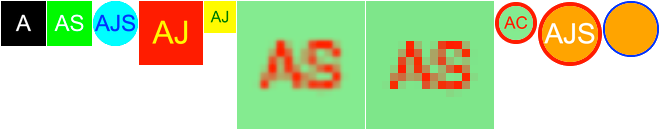
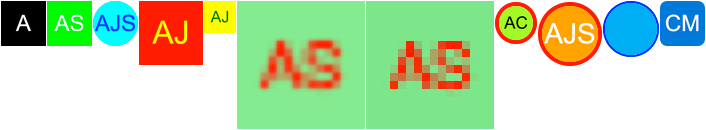
Improve documentation

diff --git a/dist/angular-avatar.min.js b/dist/angular-avatar.min.js
@@ -1,9 +1,9 @@
 /**
  * angular-avatar
  * Angular Avatar is an AngularJS directive that generates a letter's avatar like Google does in several web apps. First letter of each word in a string will be used to generate the avatar.
- * @version v1.0.3 - 2016-04-09
+ * @version v1.0.3 - 2016-04-30
  * @link https://github.com/ajsoriar/angular-avatar
  * @author Andres J. Soria R. <ajsoriar@gmail.com>
  * @license MIT License, http://www.opensource.org/licenses/MIT
  */
-!function(){"use strict";var ngavatar=angular.module("ngAvatar",[]);ngavatar.directive("ngAvatar",[function(){return{restrict:"AE",replace:!0,scope:{initials:"@initials",width:"@width",bgcolor:"@bgColor",textColor:"@textColor",wrapper:"@wrapper",pictureResolution:"@pictureResolution",pixelated:"@pixelated",roundShape:"@roundShape","class":"@class",style:"@style",string:"@string",cornerRadius:"@cornerRadius"},link:function(scope,element,attrs){function generateAvatar(name,w,h,bgcolor,textcolor,bgImage){var WIDTH=256,HEIGHT=256;void 0!=w&&w>0&&void 0!=h&&h>0&&(WIDTH=w,HEIGHT=h);var canvas=document.createElement("canvas");canvas.id="ngAvatar-"+Date.now(),canvas.width=WIDTH,canvas.height=HEIGHT;var ctx=canvas.getContext("2d");ctx.fillStyle=bgcolor,ctx.fillRect(0,0,WIDTH,HEIGHT),ctx.font=WIDTH/2+"px Arial",ctx.textAlign="center",ctx.fillStyle=textcolor,ctx.fillText(_str,WIDTH/2,HEIGHT/1.5);var img=canvas.toDataURL("image/png");return img}function getInitialsFromString(str){var output="",i=0,str=str.split(" "),len=str.length;for(i;len>i;i++)""!=str[i]&&(output+=str[i][0].toUpperCase());return output}var _long=45,_picture_resolution=256,_wrapper=!0,_str=scope.initials||"",_bgcolor="#000",_textcolor="#fff",_pixelated=!1,_img_styling="vertical-align: top;",_roundShape=!1,_wrapper_styling="border-radius: 0;display: block;overflow: hidden;",_extra_classes="",_extra_styles="",_corner_radius="0";void 0!=scope.bgcolor&&(_bgcolor=scope.bgcolor),void 0!=scope.textColor&&(_textcolor=scope.textColor),void 0!=scope.wrapper&&(_wrapper=scope.wrapper),void 0!=scope.pictureResolution&&(_picture_resolution=scope.pictureResolution),void 0!=scope.width&&(_long=scope.width),void 0!=scope.pixelated&&(_pixelated=scope.pixelated,"true"===_pixelated&&(_img_styling+="image-rendering: pixelated; image-rendering: -moz-crisp-edges;")),void 0!=scope.roundShape?(_roundShape=scope.roundShape,_roundShape&&(_wrapper_styling+="border-radius: "+_long+"px;")):void 0!=scope.cornerRadius&&(_corner_radius=scope.cornerRadius,_wrapper_styling+="border-radius: "+_corner_radius+"px;"),void 0!=scope["class"]&&(_extra_classes=scope["class"]),void 0!=scope.style&&(_extra_styles=scope.style),void 0!=scope.string&&(_str=getInitialsFromString(scope.string));var imgData=generateAvatar(_str,_picture_resolution,_picture_resolution,_bgcolor,_textcolor,null),html="";_wrapper&&(html+='<div class="avatar-wrapper '+_extra_classes+'" style="'+_wrapper_styling+"width: "+_long+"px;height: "+_long+"px;"+_extra_styles+'">'),html+='<img src="'+imgData+'" class="avatar-picture" style="'+_img_styling+'" width="100%" height="" />',_wrapper&&(html+="</div>"),element.replaceWith(html)}}}])}();
+!function(){"use strict";var ngavatar=angular.module("ngAvatar",[]);ngavatar.directive("ngAvatar",[function(){return{restrict:"AE",replace:!0,scope:{initials:"@initials",width:"@width",bgcolor:"@bgColor",textColor:"@textColor",wrapper:"@wrapper",pictureResolution:"@pictureResolution",pixelated:"@pixelated",roundShape:"@roundShape","class":"@class",style:"@style",string:"@string",cornerRadius:"@cornerRadius",autocolor:"@autocolor"},link:function(scope,element,attrs){function generateAvatar(name,w,h,bgcolor,textcolor,bgImage){var WIDTH=256,HEIGHT=256;void 0!=w&&w>0&&void 0!=h&&h>0&&(WIDTH=w,HEIGHT=h);var canvas=document.createElement("canvas");canvas.id="ngAvatar-"+Date.now(),canvas.width=WIDTH,canvas.height=HEIGHT;var ctx=canvas.getContext("2d");ctx.fillStyle=bgcolor,ctx.fillRect(0,0,WIDTH,HEIGHT),ctx.font=WIDTH/2+"px Arial",ctx.textAlign="center",ctx.fillStyle=textcolor,ctx.fillText(_str,WIDTH/2,HEIGHT/1.5);var img=canvas.toDataURL("image/png");return img}function getInitialsFromString(str){var output="",i=0,str=str.split(" "),len=str.length;for(i;len>i;i++)""!=str[i]&&(output+=str[i][0].toUpperCase());return output}var _long=45,_picture_resolution=256,_wrapper=!0,_str=scope.initials||"",_bgcolor="#000",_textcolor="#fff",_pixelated=!1,_img_styling="vertical-align: top;",_roundShape=!1,_wrapper_styling="border-radius: 0;display: block;overflow: hidden;",_extra_classes="",_extra_styles="",_corner_radius="0";void 0!=scope.bgcolor&&(_bgcolor=scope.bgcolor),void 0!=scope.textColor&&(_textcolor=scope.textColor),void 0!=scope.wrapper&&(_wrapper=scope.wrapper),void 0!=scope.pictureResolution&&(_picture_resolution=scope.pictureResolution),void 0!=scope.width&&(_long=scope.width),void 0!=scope.pixelated&&(_pixelated=scope.pixelated,"true"===_pixelated&&(_img_styling+="image-rendering: pixelated; image-rendering: -moz-crisp-edges;")),void 0!=scope.roundShape?(_roundShape=scope.roundShape,_roundShape&&(_wrapper_styling+="border-radius: "+_long+"px;")):void 0!=scope.cornerRadius&&(_corner_radius=scope.cornerRadius,_wrapper_styling+="border-radius: "+_corner_radius+"px;"),void 0!=scope["class"]&&(_extra_classes=scope["class"]),void 0!=scope.style&&(_extra_styles=scope.style),void 0!=scope.string&&(_str=getInitialsFromString(scope.string));var imgData=generateAvatar(_str,_picture_resolution,_picture_resolution,_bgcolor,_textcolor,null),html="";_wrapper&&(html+='<div class="avatar-wrapper '+_extra_classes+'" style="'+_wrapper_styling+"width: "+_long+"px;height: "+_long+"px;"+_extra_styles+'">'),html+='<img src="'+imgData+'" class="avatar-picture" style="'+_img_styling+'" width="100%" height="" />',_wrapper&&(html+="</div>"),element.replaceWith(html)}}}])}();

diff --git a/dist/angular-avatar.js b/dist/angular-avatar.js
@@ -1,7 +1,7 @@
 /**
  * angular-avatar
  * Angular Avatar is an AngularJS directive that generates a letter's avatar like Google does in several web apps. First letter of each word in a string will be used to generate the avatar.
- * @version v1.0.3 - 2016-04-09
+ * @version v1.0.3 - 2016-04-30
  * @link https://github.com/ajsoriar/angular-avatar
  * @author Andres J. Soria R. <ajsoriar@gmail.com>
  * @license MIT License, http://www.opensource.org/licenses/MIT
@@ -30,7 +30,8 @@
                 class: '@class',
                 style: '@style',
                 string:'@string',
-                cornerRadius: '@cornerRadius'
+                cornerRadius: '@cornerRadius',
+                autocolor: '@autocolor'
             },
             link: function(scope, element, attrs) {
 
@@ -46,7 +47,8 @@
                     _wrapper_styling = "border-radius: 0;display: block;overflow: hidden;",
                     _extra_classes = "",
                     _extra_styles = "",
-                    _corner_radius = "0";
+                    _corner_radius = "0",
+                    _autocolor = true;
 
                 if (scope.bgcolor != undefined) {
                     _bgcolor = scope.bgcolor;

diff --git a/src/angular-avatar.js b/src/angular-avatar.js
@@ -1,7 +1,7 @@
 /**
  * angular-avatar
  * Angular Avatar is an AngularJS directive that generates a letter's avatar like Google does in several web apps. First letter of each word in a string will be used to generate the avatar.
- * @version v1.0.3 - 2016-04-09
+ * @version v1.0.3 - 2016-04-30
  * @link https://github.com/ajsoriar/angular-avatar
  * @author Andres J. Soria R. <ajsoriar@gmail.com>
  * @license MIT License, http://www.opensource.org/licenses/MIT
@@ -30,7 +30,8 @@
                 class: '@class',
                 style: '@style',
                 string:'@string',
-                cornerRadius: '@cornerRadius'
+                cornerRadius: '@cornerRadius',
+                autocolor: '@autocolor'
             },
             link: function(scope, element, attrs) {
 
@@ -46,7 +47,8 @@
                     _wrapper_styling = "border-radius: 0;display: block;overflow: hidden;",
                     _extra_classes = "",
                     _extra_styles = "",
-                    _corner_radius = "0";
+                    _corner_radius = "0",
+                    _autocolor = true;
 
                 if (scope.bgcolor != undefined) {
                     _bgcolor = scope.bgcolor;

diff --git a/README.md b/README.md
@@ -62,11 +62,13 @@ More usage examples ready to copy and paste: :+1:
 <div ng-avatar initials="AJ" bg-color="yellow" text-color="green" picture-resolution="1024" width="32"></div>
 <ng-avatar initials="AS" bg-color="lightgreen" text-color="red" picture-resolution="16" width="128" pixelated="false" ></ng-avatar>
 <ng-avatar initials="AS" bg-color="lightgreen" text-color="red" picture-resolution="16" width="128" pixelated="true" ></ng-avatar>
-<ng-avatar initials="AS" round-shape="true" bg-color="lightgreen" text-color="red" picture-resolution="512" width="42" pixelated="false" class="adres-css" style="border:4px solid red" ></ng-avatar>
+<ng-avatar initials="AS" round-shape="true" bg-color="#a8ff2c" text-color="black" picture-resolution="512" width="42" pixelated="false" class="adres-css" style="border:4px solid red" ></ng-avatar>
 <ng-avatar initials="AS" round-shape="true" string="  andres     jose   soria " bg-color="orange" text-color="#FFF" picture-resolution="256" width="64" pixelated="false" class="adres-css" style="border:4px solid red" ></ng-avatar>
-<ng-avatar round-shape="true" bg-color="orange" text-color="white" picture-resolution="256" width="56" pixelated="false" class="adres-css" style="border:2px solid blue" ></ng-avatar>
+<ng-avatar round-shape="true" bg-color="#36adf2" text-color="white" picture-resolution="256" width="56" pixelated="false" class="adres-css" style="border:2px solid blue" ></ng-avatar>
+<ng-avatar initials="CM" corner-radius="7" bg-color="#3875d7"></ng-avatar>
 ```
 You will get this:
+
 ![Alt text](./demo/angular-avatar-examples.png?raw=true "More examples")
 
 #### 4 Attributes
@@ -75,15 +77,16 @@ You will get this:
 | :------------------- | :----- | :--------------------- |
 | `initials`           | null  | Letters that will be rendered inside the avatar. Commonly the initials of first name and last name or a username. One, two or three letters can be used. |
 | `width`              | 45    | An integer that sets the avatar's width and height in pixels using styles. Height of the avatar will be taken from it's width attribute. height attribute doesn't exist. | integer |
-| `bg-color`           | #000  | This is the background color of the avatar. If not set the background will be black. You can use regular css color's like color names, hex or rgb |
-| `text-color`         | #fff  | The color of the letters. Letters will be white if this attribute is not set. Use regular css color's |
-| `wrapper`            | true  | A boolean false value removes the div that wraps the avatar's image. ng-avatar generates an img tag and a div layer that wraps the image. This wrapping div has an special class `class="avatar-wrapper"` that can be used to apply extra styling. ng-avatar uses this div to generate a round avatar applying extra styles when round-shape attribute is true, `round-shape="true"` |
-| `picture-resolution` | 256   | This attribute sets the width and heigth values in pexels of the picture that generates this directive. `width` attribute will scale the picture using only styles. | 
+| `bg-color`           | #000  | This is the background color of the avatar. If not set, the background will be black. You can use regular css color's like color names, hex or rgb |
+| `text-color`         | #fff  | The color of the letters. Letters will be white if this attribute is not set. Use regular css colors |
+| `wrapper`            | true  | ng-avatar generates an img tag and a div layer that wraps the image. A boolean false value removes the div that wraps the avatar's image. This wrapping div has an special class `class="avatar-wrapper"` that can be used to apply extra styling. ng-avatar uses this div to generate a round avatar applying extra styles when round-shape attribute is true, `round-shape="true"` |
+| `picture-resolution` | 256   | This attribute sets the real resolution (width and height in pixels) of the picture that this directive generates. `width` attribute will scale the picture using only styles. | 
 | `pixelated`          | false | If ng-avatar's width is bigger than picture-resolution attribute, the web browser will scale the image and we will get a blurry picture. This attribute deactivates the anti-aliasing effect and you will get a pixelated image. Useful If you want a retro styling |
 | `round-shape`        | false | When set to `true` the avatar will take a round shape |
 | `class`              | null  | Use this attribute in the same way it is used in common html tags |
 | `style`              | null  | Use this attribute in the same way it is used in common html tags |
 | `string`             | null  | Here you can put a group of words like a sentence or your complete name. The first letter of each word will be used to generate the avatar's image |
+| `corner-radius`      | 0     | Square avatars can have rounded corners using this property |
 
 #### 4 License
 
